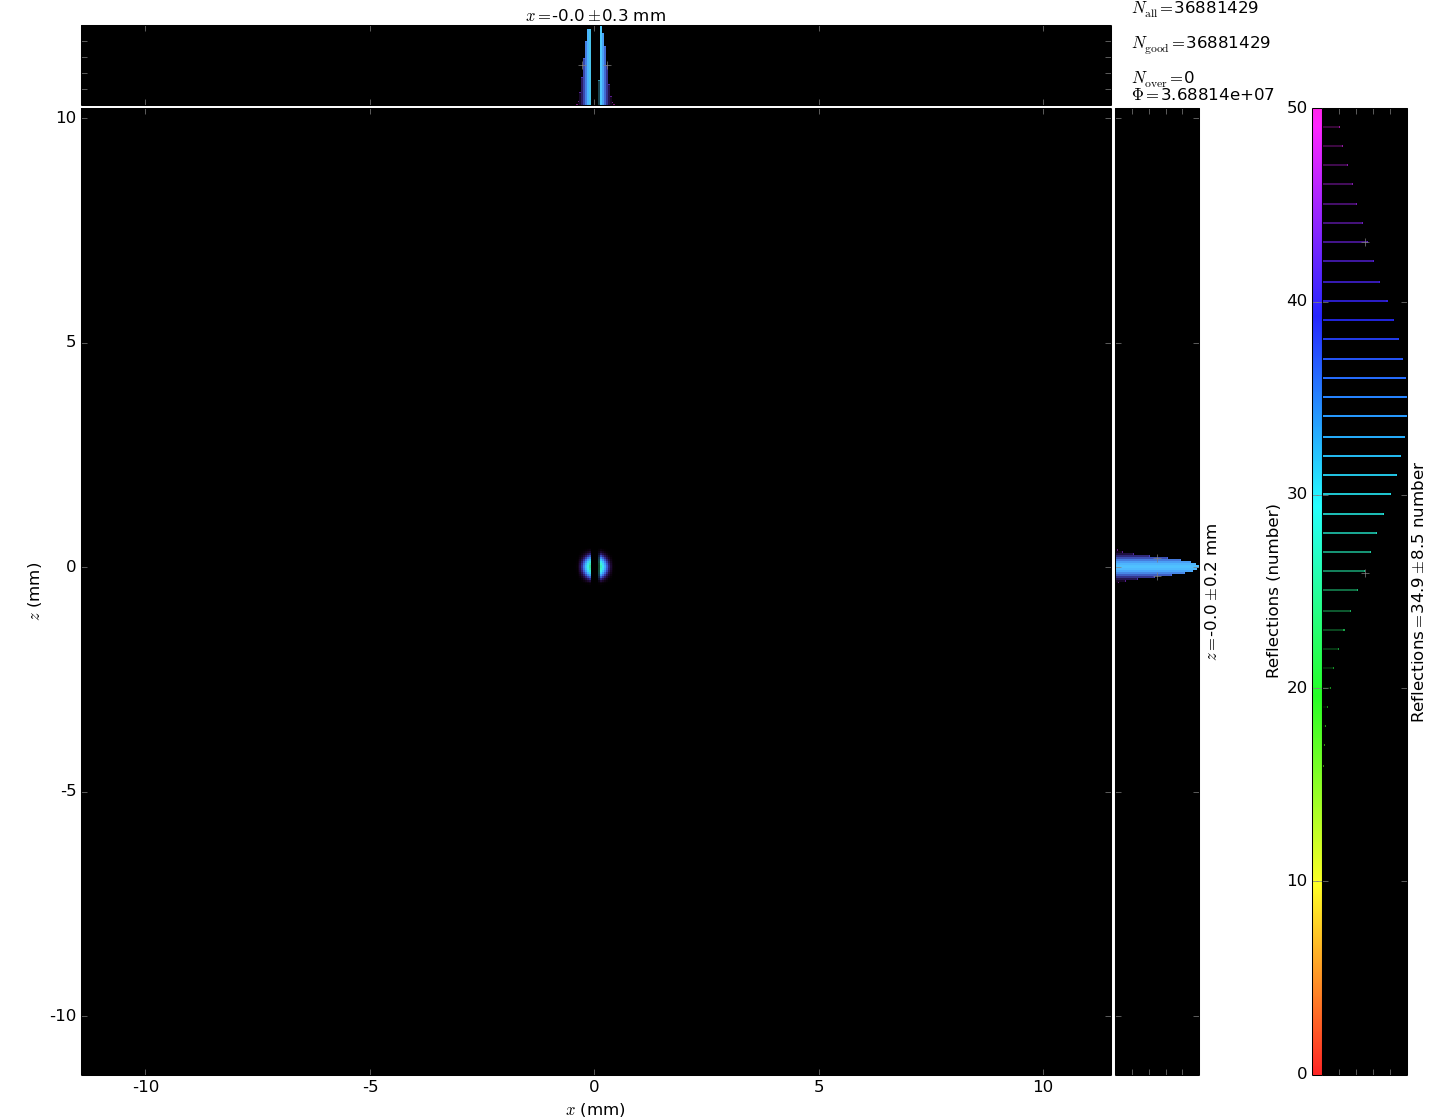
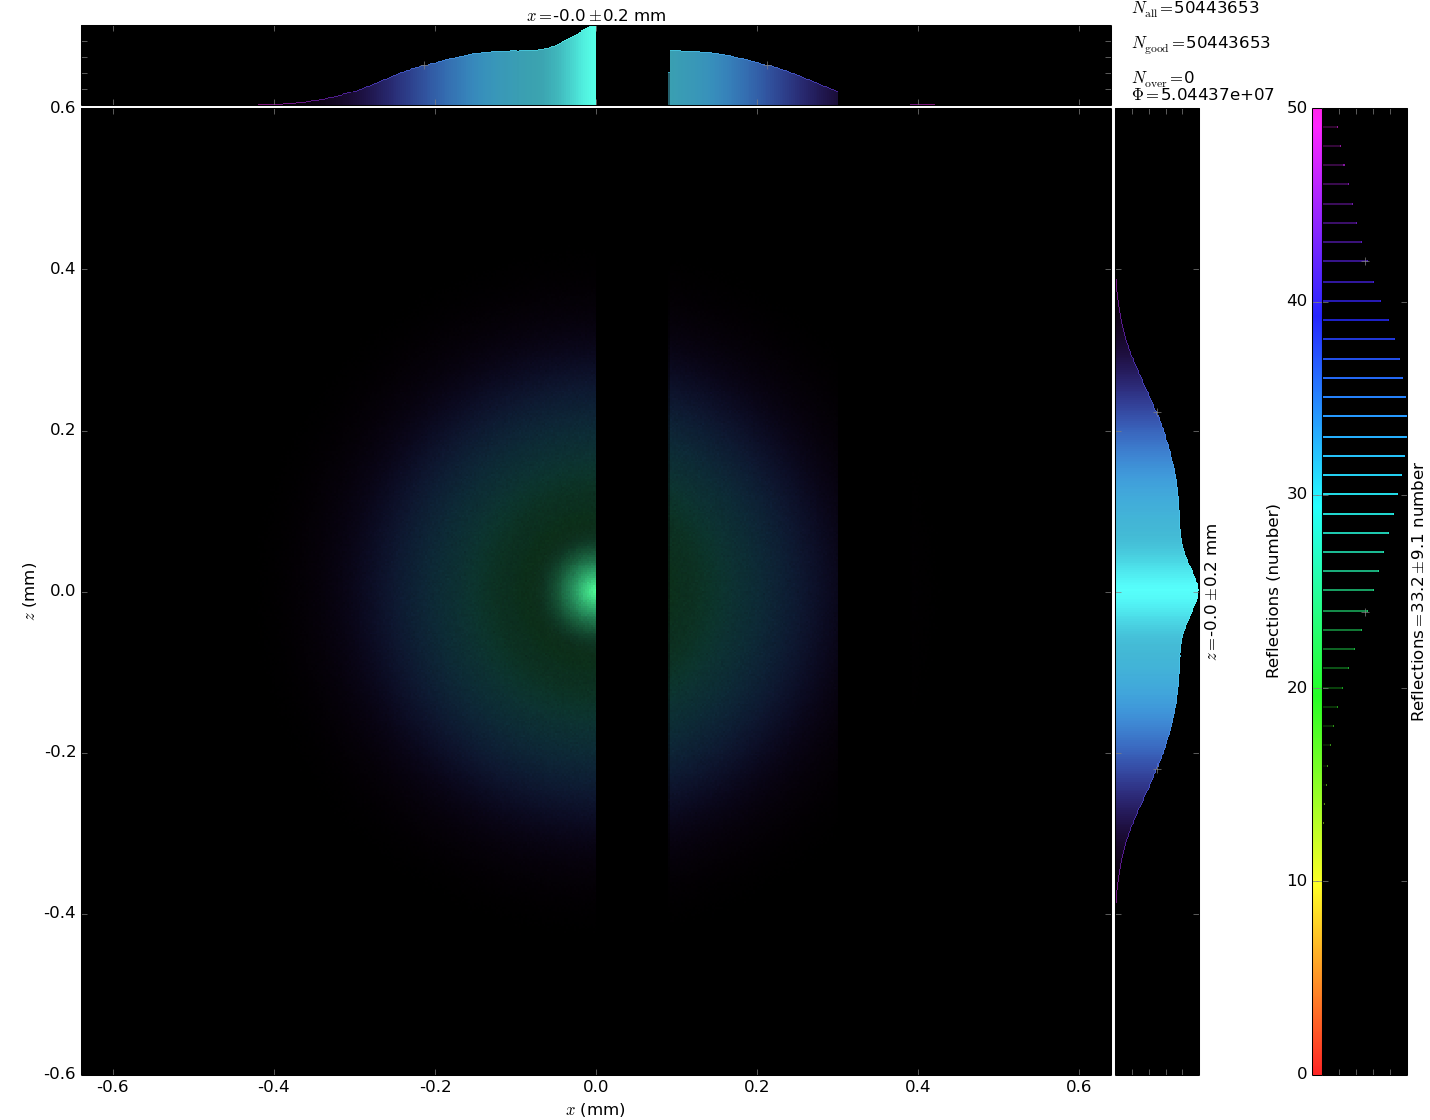
Add pictures for multiple wires in the focal spot
- also simplify their creation

diff --git a/main.py b/main.py
@@ -6,18 +6,12 @@ from elements import structures as st
 from lenses import polycapillary as lp
 from utils import plotter as up
 from utils import beam as ub
+from utils import cutter as uc
 from examples import source as es
 
 from setups import firstlens as fl
 
 import xrt.backends.raycing.run as rr
-
-def create_source():
-    """ Generate photons with xrt and save resulting beam """
-    # Every source detail is set and tested within it's module
-    # so here we can just create the beam at the desired moment
-    beamGlobalTotal = es.create_geometric(1e5)
-    ub.save_beam_compressed(beamGlobalTotal, 'basic_source.beamc')
 
 def create_lens():
     """ Wrapped lens creation """
@@ -59,27 +53,9 @@ def create_beam(dirname):
 
     return True
 
-
-# This is not pretty, yet obligatory
-rr.run_process = fl.MultipleCapillariesFittedSource.local_process
-
-if __name__ == '__main__':
-    """ python main.py """
-
-    # Choose path for storage
-    directory = 'my_new_lens'
-
-    # Create if necessary
-    if not os.path.exists(directory):
-        os.makedirs(directory)
-
-        # Run ray traycing (LONG) only if no such directory exist
-        create_beam(directory)
-    else :
-        print "Directory exists, photon storage not possible in pre-existing directories"
-        print "Trying to load from that directory"
-
-    beam = ub.load_beam(directory)
+def show_beam(folder):
+    """ Show beam from folder """
+    beam = ub.load_beam(folder)
 
     # Show results
     bp = up.BeamPlotter(beam)
@@ -90,3 +66,39 @@ if __name__ == '__main__':
     bp.show(155)
     bp.set_save_name('png/example_170.png')
     bp.show(170)
+
+def show_or_create(directory):
+    """ Example usage """
+    # Create if necessary
+    if not os.path.exists(directory):
+        os.makedirs(directory)
+
+        # Run ray traycing (LONG) only if no such directory exist
+        create_beam(directory)
+        print "Beam created, goodbye"
+    else :
+        print "Directory exists, photon storage not possible in pre-existing directories"
+        print "Trying to load from that directory"
+        show_beam(directory)
+
+
+# This is not pretty, yet obligatory
+rr.run_process = fl.MultipleCapillariesFittedSource.local_process
+
+if __name__ == '__main__':
+    """ python main.py """
+
+    # Choose path for storage
+    directory = 'data'
+
+    # Get beam at the focal spot
+    beam = ub.load_beam(directory)
+    ub.move_beam_to(beam, 155)
+
+    ceam = uc.make_wires(beam)
+    cp = up.BeamPlotter(ceam)
+    cp.set_limits([-0.6, 0.6])
+    cp.show(155)
+
+    cp.set_limits([-3, 3])
+    cp.show(170)

diff --git a/utils/cutter.py b/utils/cutter.py
@@ -1,0 +1,26 @@
+import numpy as np
+from utils import beam as ub
+from utils import plotter as up
+
+def cut_wire(beam):
+    """ Simulated a rectangular object blocking the beam """
+    ids = ((beam.x > -0.2) & (beam.x < -0.17)) |\
+	  ((beam.x > -0.1) & (beam.x < -0.07)) |\
+	  ((beam.x >  0.0) & (beam.x <  0.03)) |\
+	  ((beam.x >  0.1) & (beam.x <  0.13)) |\
+	  ((beam.x >  0.2) & (beam.x <  0.23))
+
+    print ids.sum()
+    ids = ids != True
+    print ids.sum()
+
+    return ids
+
+def make_wires(beam):
+    """ Usage example """
+    ids = cut_wire(beam)
+
+    ceam = ub.copy_by_index(beam, ids)
+
+    return ceam
+

diff --git a/setups/firstlens.py b/setups/firstlens.py
@@ -1,6 +1,3 @@
-# TODO this should be in some kind of settings.py
-_threads = 1
-
 import numpy as np
 import multiprocessing as mp
 import os
